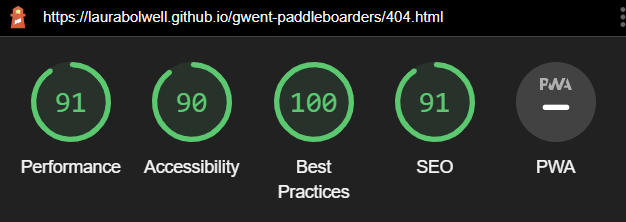
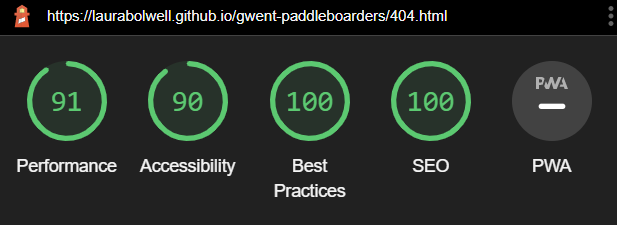
Update lighthouse testing screenshots

diff --git a/TESTING.md b/TESTING.md
@@ -60,7 +60,13 @@ I've tested my deployed project on multiple devices to check for responsiveness 
 
 ## Lighthouse Audit
 
-I've tested my deployed project using the Lighthouse Audit tool to check for any major issues.
+I've tested my deployed project using the Lighthouse Audit tool to check for any major issues. I have made the following changes to the site following lighthouse suggestions:
+- Add meta description tags to head element of each page
+- Add meta keywords tag to head element of home page
+- Converted hero image and all gallery images to webp format
+- Change text on schedule-overview buttons from 'More Info' to 'Full Details'
+
+The following screenshots show the final lighthouse testing results. 
 
 | Page | Size | Screenshot | Notes |
 | --- | --- | --- | --- |
@@ -110,7 +116,7 @@ I've tested my deployed project using the Lighthouse Audit tool to check for any
 
 - Hero image overflowing below viewport window
 
-    I had set my hero image to have height 100vh, with the navbar above it this meant that the bottom of the image (and the chevron icon) had overflowed below the viewport window. To fix this, I gave the navbar position:absolute at the top of the page which meant it now overlays the top of the hero image and the image is the right height for the screen.
+    I had set my hero image to have height 100vh, with the navbar above it, this meant that the bottom of the image (and the chevron icon) had overflowed below the viewport window. To fix this, I gave the navbar position:absolute at the top of the page which meant it now overlays the top of the hero image and the image is the right height for the screen.
 
 - Schedule overview card buttons appearing at different heights
 
